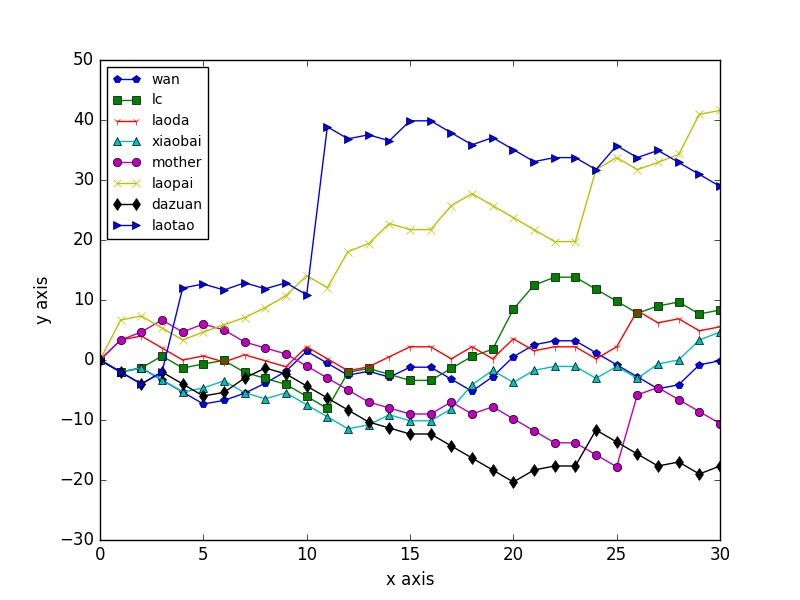
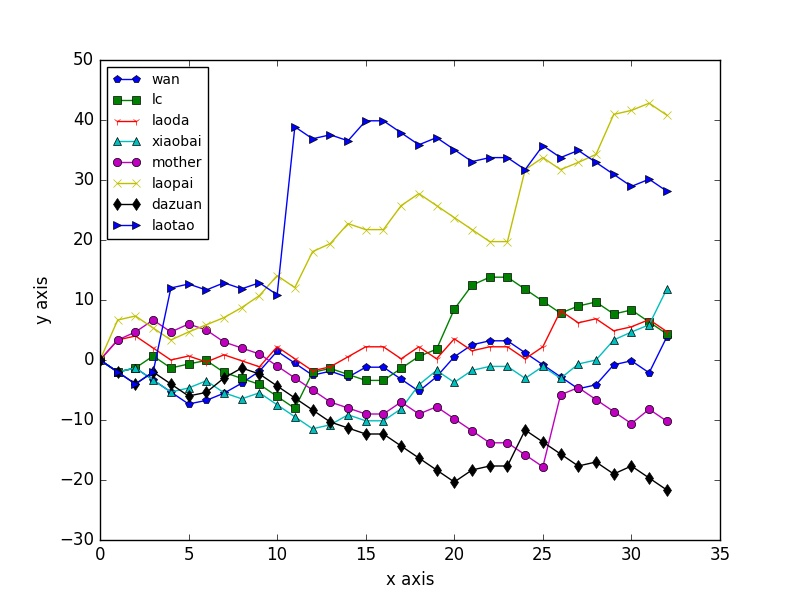
update

diff --git a/README.md b/README.md
@@ -1,23 +1,63 @@
 # E cup guess competition report
 ## real-time ranking
-2016-06-22 01:54:03
+2016-06-22 11:51:46
 
 |rank|name|score|
 |:---:|:---:|:---:|
-|1|laopai|41.60|
-|2|laotao|28.93|
-|3|lc|8.33|
-|4|laoda|5.53|
-|5|xiaobai|4.67|
-|6|wan|-0.13|
-|7|mother|-10.60|
-|8|dazuan|-17.67|
+|1|laopai|40.80|
+|2|laotao|28.13|
+|3|xiaobai|11.87|
+|4|laoda|4.73|
+|5|lc|4.33|
+|6|wan|3.87|
+|7|mother|-10.20|
+|8|dazuan|-21.67|
 
 ## Pond
-558.33
+557.13
 
 ## History
 ![image](https://github.com/Anserw/E_Cup/blob/master/plot.jpg)
+### 2016062203 Croatia 2 : 1 Spain
+- handicap: 0.5
+- scorer: laotao
+- owners:
+ - Croatia: mother
+ - Spain: lc
+
+
+|name|guess|score change|
+|:---:|:---:|:---:|
+|wan|Spain|-2.00|
+|lc|Spain|-2.00|
+|laoda|Croatia|1.20|
+|xiaobai|Croatia|1.20|
+|mother|Croatia|2.40|
+|laopai|Croatia|1.20|
+|dazuan|Spain|-2.00|
+|laotao|Croatia|1.20|
+|Pond|..|-1.20|
+
+### 2016062203 Czech 0 : 2 Turkey
+- handicap: 0.5 / 0
+- scorer: laotao
+- owners:
+ - Czech: lc
+ - Turkey: laopai
+
+
+|name|guess|score change|
+|:---:|:---:|:---:|
+|wan|Turkey|6.00|
+|lc|Czech|-2.00|
+|laoda|Czech|-2.00|
+|xiaobai|Turkey|6.00|
+|mother|Czech|-2.00|
+|laopai|Czech|-2.00|
+|dazuan|Czech|-2.00|
+|laotao|Czech|-2.00|
+|Pond|..|0.00|
+
 ### 2016062200 NorthernIreland 0 : 1 Germany
 - handicap: 1.5
 - scorer: laotao
